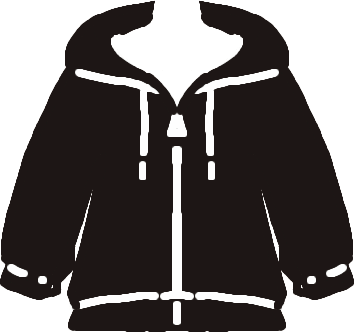
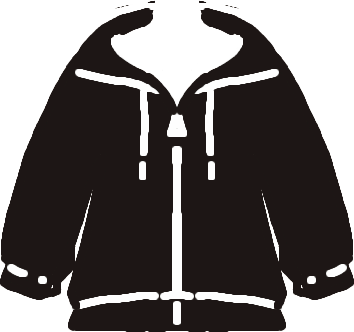
feat: 新增衣物图片、tagPosition 简化为 left/right
- 新增 vest、hoodie、light-jacket、short-pants 图片及尺寸变量
- TagPos 简化为 Left/Right，tag-wrapper 统一顶部定位
- CLOTHING_RULES 新增 35°C 吊带选项
- ITEM_POS_MAP 新增 rotate 参数
- 卫衣独立 className hoodie

Changed region(s): [[0.5593, 0.0, 0.839, 0.2108], [0.1864, 0.0, 0.435, 0.2108]]

diff --git a/src/pages/index/index.scss b/src/pages/index/index.scss
@@ -2,7 +2,6 @@
 
 .container {
   position: relative;
-  min-height: 100vh;
 }
 
 .body-layers {
@@ -54,6 +53,34 @@
       left: 17%;
       width: $pants-width;
       height: $pants-height;
+    }
+
+    &.vest {
+      top: 29%;
+      left: 14%;
+      width: $vest-width;
+      height: $vest-height;
+    }
+
+    &.hoodie {
+      top: 27%;
+      left: 3%;
+      width: $hoodie-width;
+      height: $hoodie-height;
+    }
+
+    &.light-jacket {
+      top: 28%;
+      left: 3%;
+      width: $light-jacket-width;
+      height: $light-jacket-height;
+    }
+
+    &.short-pants {
+      top: 54%;
+      left: 17%;
+      width: $short-pants-width;
+      height: $short-pants-height;
     }
   }
 }

diff --git a/src/pages/index/index.tsx b/src/pages/index/index.tsx
@@ -10,19 +10,20 @@ import './index.scss'
 
 // 衣物位置配置
 const ITEM_POS_MAP: Record<string, Partial<ClothingItemProps>> = {
-  '短袖': { className: 'tshirt', tagPosition: TagPos.TopLeft, offsetX: 30 },
-  '短T恤': { className: 'tshirt', tagPosition: TagPos.TopLeft },
-  'T恤': { className: 'tshirt', tagPosition: TagPos.TopLeft },
-  '卫衣': { className: 'tshirt', tagPosition: TagPos.TopLeft },
-  '薄外套': { className: 'jacket', tagPosition: TagPos.TopRight },
-  '厚外套': { className: 'jacket', tagPosition: TagPos.TopRight },
-  '外套': { className: 'jacket', tagPosition: TagPos.TopRight },
-  '羽绒服': { className: 'jacket', tagPosition: TagPos.TopRight },
-  '短裙': { className: 'skirt', tagPosition: TagPos.BottomLeft },
-  '短裤': { className: 'skirt', tagPosition: TagPos.BottomLeft },
-  '长裤': { className: 'pants', tagPosition: TagPos.BottomRight },
-  '秋裤': { className: 'pants', tagPosition: TagPos.BottomRight },
-  '加绒裤': { className: 'pants', tagPosition: TagPos.BottomRight },
+  '短袖': { className: 'tshirt', tagPosition: TagPos.Left, offsetX: -90, offsetY: -5, rotate: 20  },
+  '吊带': { className: 'vest', tagPosition: TagPos.Left },
+  '短裙': { className: 'skirt', tagPosition: TagPos.Left },
+  '短T恤': { className: 'tshirt', tagPosition: TagPos.Left },
+  'T恤': { className: 'tshirt', tagPosition: TagPos.Left, offsetX: -90, offsetY: -5, rotate: 20 },
+  '卫衣': { className: 'hoodie', tagPosition: TagPos.Left, offsetX: -76, offsetY: 14, rotate: 20 },
+  '薄外套': { className: 'light-jacket', tagPosition: TagPos.Right, offsetX: 76, offsetY: 10, rotate: -20 },
+  '厚外套': { className: 'jacket', tagPosition: TagPos.Right },
+  '外套': { className: 'jacket', tagPosition: TagPos.Right },
+  '羽绒服': { className: 'jacket', tagPosition: TagPos.Right },
+  '短裤': { className: 'short-pants', tagPosition: TagPos.Right, offsetX: 90, offsetY: 120, rotate: 20 },
+  '长裤': { className: 'pants', tagPosition: TagPos.Right, offsetX: 94, offsetY: 150, rotate: 20  },
+  '秋裤': { className: 'pants', tagPosition: TagPos.Right },
+  '加绒裤': { className: 'pants', tagPosition: TagPos.Right },
 }
 
 const DEFAULT_CITY: CityResult = {

diff --git a/src/components/clothing-item/index.scss b/src/components/clothing-item/index.scss
@@ -12,37 +12,25 @@
     display: flex;
     position: absolute;
     top: 0;
-    left: 0;
-    width: $line-width;
-    height: $line-height;
-    &.top-left {
-      top: 0;
+    justify-content: center;
+    align-items: center;
+
+    &.left {
       left: 0;
-      // transform:;
+      flex-direction: row-reverse;
     }
 
-    &.top-right {
-      top: 0;
-      right: 0;
-    }
-
-    &.bottom-left {
-      bottom: 0;
-      left: 0;
-    }
-
-    &.bottom-right {
-      bottom: 0;
+    &.right {
       right: 0;
     }
     .line-img {
       width: $line-width;
       height: $line-height;
+      padding: 0 3rpx;
     }
 
     .name-tag {
       font-size: 30rpx;
-      padding: 4rpx 12rpx;
       white-space: nowrap;
     }
   }

diff --git a/src/components/clothing-item/index.tsx b/src/components/clothing-item/index.tsx
@@ -5,24 +5,27 @@ import skirtImg from '../../../assets/images/skirt.png'
 import tshirtImg from '../../../assets/images/tshirt.png'
 import jacketImg from '../../../assets/images/jacket.png'
 import pantsImg from '../../../assets/images/pants.png'
+import vestImg from '../../../assets/images/vest.png'
+import lightJacketImg from '../../../assets/images/light-jacket.png'
+import shortPantsImg from '../../../assets/images/short-pants.png'
+import hoodieImg from '../../../assets/images/hoodie.png'
 import './index.scss'
 
 export enum TagPos {
-  TopLeft = 'top-left',
-  TopRight = 'top-right',
-  BottomLeft = 'bottom-left',
-  BottomRight = 'bottom-right',
+  Left = 'left',
+  Right = 'right',
 }
 
 // 衣物名称 -> 图片映射
 const IMAGE_MAP: Record<string, string> = {
   '短裙': skirtImg,
-  '短裤': skirtImg,
+  '短裤': shortPantsImg,
   '短袖': tshirtImg,
+  '吊带': vestImg,
   '短T恤': tshirtImg,
   'T恤': tshirtImg,
-  '卫衣': jacketImg,
-  '薄外套': jacketImg,
+  '卫衣': hoodieImg,
+  '薄外套': lightJacketImg,
   '厚外套': jacketImg,
   '外套': jacketImg,
   '羽绒服': jacketImg,
@@ -36,14 +39,16 @@ export interface ClothingItemProps {
   tagPosition?: TagPos
   offsetX?: number
   offsetY?: number
+  rotate?: number
   className?: string
 }
 
 export default function ClothingItem({
   name,
-  tagPosition = TagPos.TopLeft,
+  tagPosition = TagPos.Left,
   offsetX = 0,
   offsetY = 0,
+  rotate = 0,
   className,
 }: ClothingItemProps) {
   const src = IMAGE_MAP[name]
@@ -54,7 +59,7 @@ export default function ClothingItem({
       <Image className='clothing-img' src={src} mode='aspectFit' />
       <View
         className={`tag-wrapper ${tagPosition}`}
-        style={`transform: translate(${offsetX}%, ${offsetY}%)`}
+        style={`transform: translate(${offsetX}%, ${offsetY}%) rotate(${rotate}deg)`}
       >
         <Image className='line-img' src={lineImg} mode='aspectFit' />
         <Text className='name-tag'>{name}</Text>

diff --git a/src/variables.scss b/src/variables.scss
@@ -24,7 +24,15 @@ $skirt-width: math.div(276rpx, 2);
 $skirt-height: math.div(203rpx, 2);
 $tshirt-width: math.div(272rpx, 2);
 $tshirt-height: math.div(240rpx, 2);
-$line-width: math.div(113rpx, 2);
-$line-height: math.div(47rpx, 2);
+$line-width: math.div(113rpx, 2.5);
+$line-height: math.div(47rpx, 2.5);
 $pants-width: math.div(234rpx, 2);
 $pants-height: math.div(361rpx, 2);
+$vest-width: math.div(180rpx, 2);
+$vest-height: math.div(246rpx, 2);
+$light-jacket-width: math.div(358rpx, 2);
+$light-jacket-height: math.div(365rpx, 2);
+$short-pants-width: math.div(250rpx, 2);
+$short-pants-height: math.div(221rpx, 2);
+$hoodie-width: math.div(346rpx, 2);
+$hoodie-height: math.div(325rpx, 2);

diff --git a/src/constants.ts b/src/constants.ts
@@ -1,10 +1,10 @@
 /** 穿衣建议：按温度区间定义 */
 export const CLOTHING_RULES = [
-  { minTemp: 30, text: '短袖短裤，清凉透气', icon: '👕', items: ['短T恤', '短裤', '凉鞋'] },
-  { minTemp: 25, text: 'T恤/薄衬衫，舒适为主', icon: '👕', items: ['短袖', '短裤', '单鞋'] },
-  { minTemp: 20, text: '薄长袖/卫衣，早晚可备薄外套', icon: '🧥', items: ['薄外套', '长裤', '运动鞋'] },
-  // { minTemp: 20, text: '薄长袖/卫衣，早晚可备薄外套', icon: '🧥', items: ['卫衣', '薄外套', '长裤', '运动鞋'] },
-  { minTemp: 15, text: '外套/卫衣，注意保暖', icon: '🧥', items: ['卫衣', '薄外套', '长裤', '运动鞋'] },
+  { minTemp: 35, text: '吊带短裤，清凉透气', icon: '👕', items: ['吊带', '短裙', '凉鞋'] },
+  { minTemp: 30, text: '短袖短裤，清凉透气', icon: '👕', items: ['短裤', 'T恤', '凉鞋'] },
+  { minTemp: 25, text: 'T恤/薄衬衫，舒适为主', icon: '👕', items: ['短裤', '短袖', '单鞋'] },
+  { minTemp: 20, text: '薄长袖/卫衣，早晚可备薄外套', icon: '🧥', items: ['长裤', 'T恤', '薄外套', '运动鞋'] },
+  { minTemp: 15, text: '外套/卫衣，注意保暖', icon: '🧥', items: ['长裤', '卫衣', '薄外套', '运动鞋'] },
   { minTemp: 10, text: '厚外套/毛衣，注意保暖', icon: '🧶', items: ['厚外套', '秋衣', '长裤', '运动鞋'] },
   { minTemp: 0, text: '棉衣/羽绒服，做好防寒', icon: '🧥', items: ['羽绒服', '秋衣', '秋裤', '加绒裤', '靴子'] },
   { minTemp: -Infinity, text: '厚羽绒服/棉服，全副武装', icon: '🧤', items: ['羽绒服', '秋衣', '秋裤', '加绒裤', '靴子'] },

diff --git a/src/app.scss b/src/app.scss
@@ -8,8 +8,3 @@ page {
 page, body, view, text {
   font-family: 'CustomFont', -apple-system, BlinkMacSystemFont, 'Helvetica Neue', Helvetica, 'PingFang SC', 'Hiragino Sans GB', 'Microsoft YaHei', Arial, sans-serif !important;
 }
-
-.container {
-  padding: 24rpx;
-  padding-bottom: 48rpx;
-}